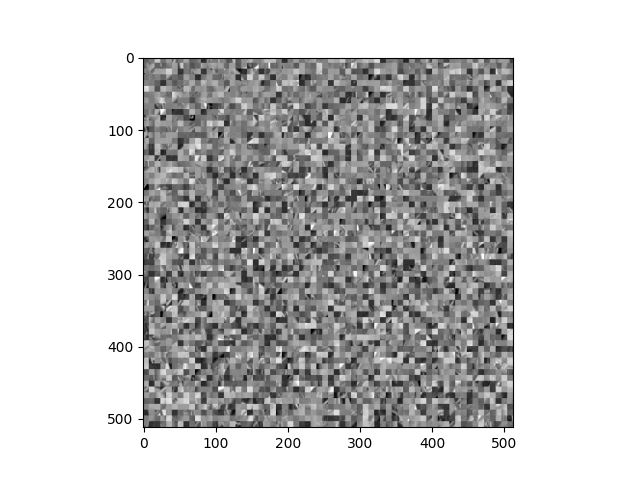
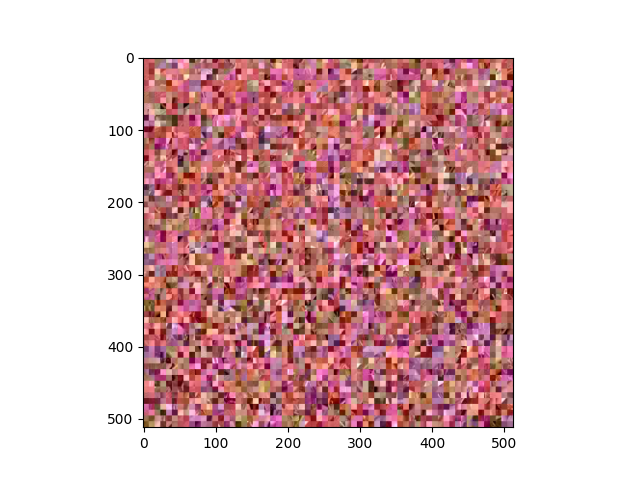
fixed

diff --git a/scrambling.py b/scrambling.py
@@ -198,25 +198,28 @@ if __name__ == "__main__":
 
     # block shuffle
     block_shuffle(dct_y)
+    block_shuffle(dct_cb)
+    block_shuffle(dct_cr)
 
     # # AC remove
     # ac_remove(dct_y)
     # ac_remove(dct_cb)
     # ac_remove(dct_cr)
 
-    dct_cb[:] = 0
-    dct_cr[:] = 0
+    # dct_cb[:] = 0
+    # dct_cr[:] = 0
 
 
     # Re-encode
     reencode_dct(args.filename, args.outfilename, dct_y, dct_cb, dct_cr, blocksizes)
 
-
+    ### matplotlib ###
     img = mpimg.imread(args.outfilename)
     imgplot = plt.imshow(img)
     plt.waitforbuttonpress()
     plt.close()
 
+    ### opencv ###
     # img = cv2.imread(args.outfilename)
     # cv2.imshow('ImageWindow',img)
     # cv2.waitKey()
